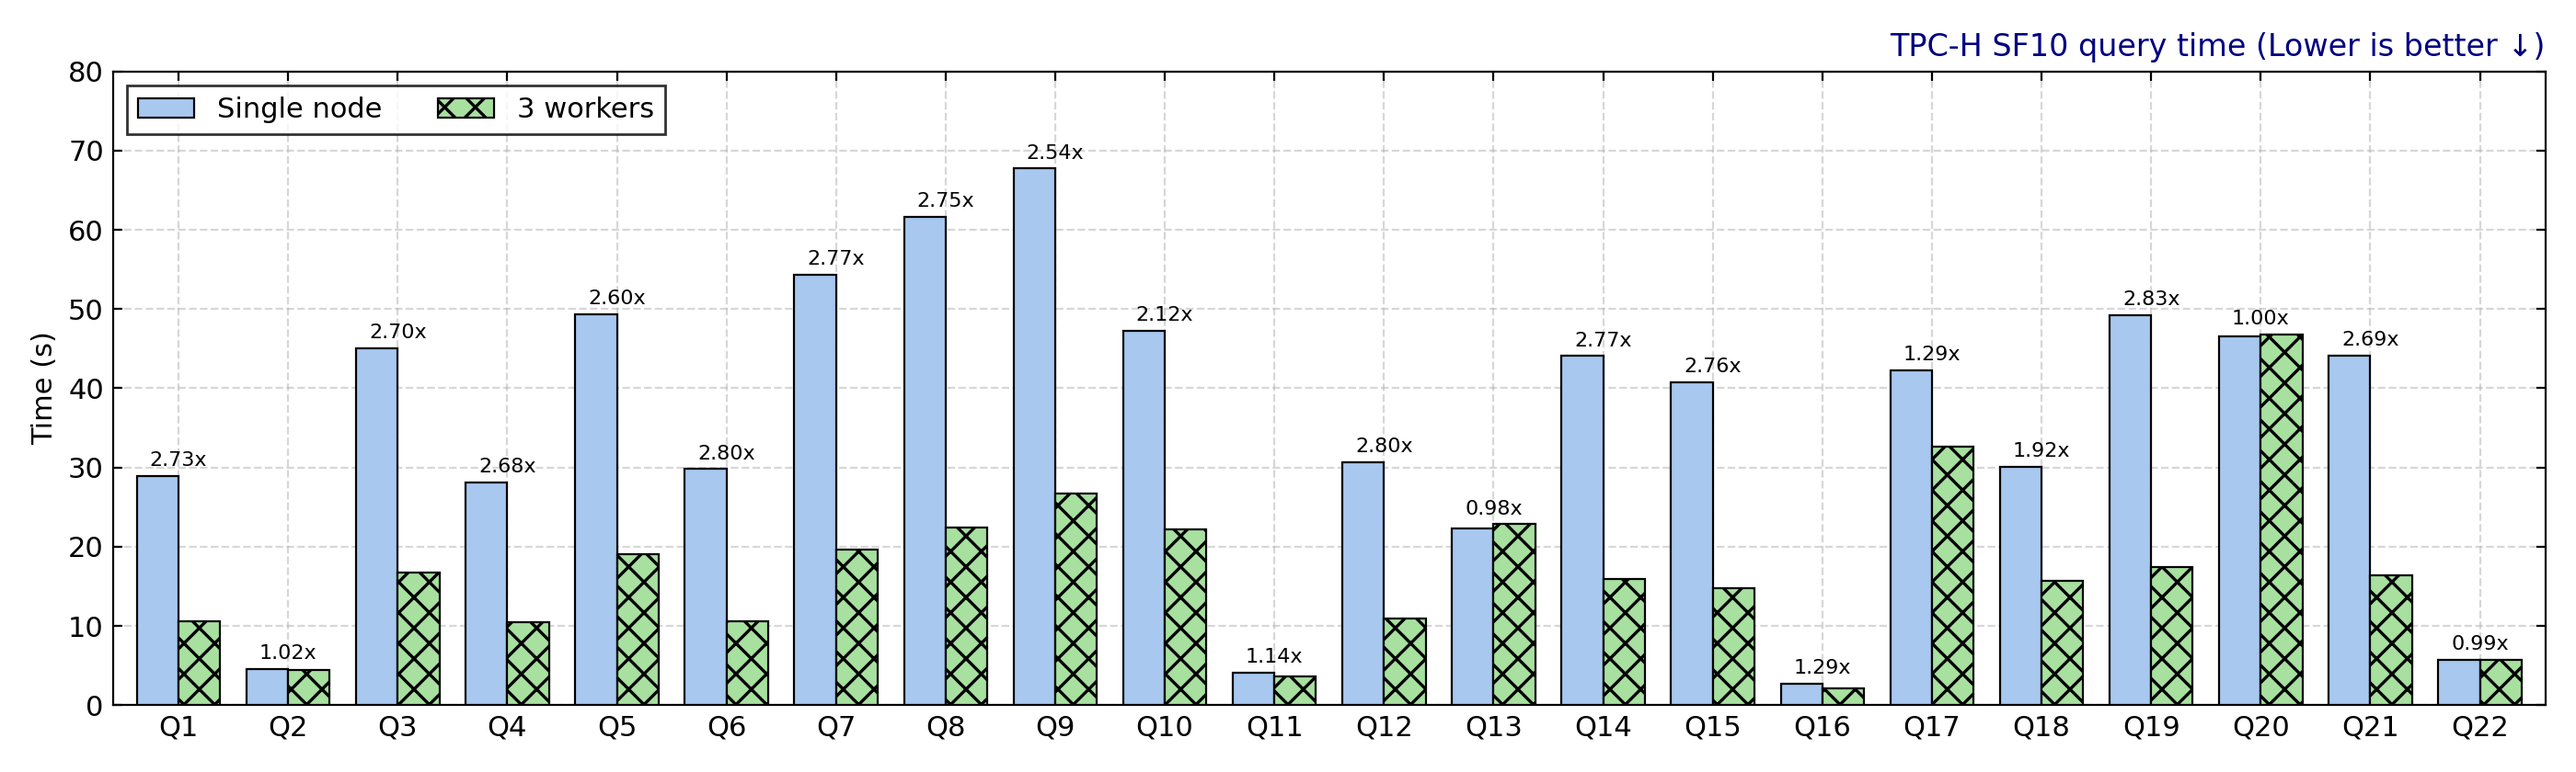
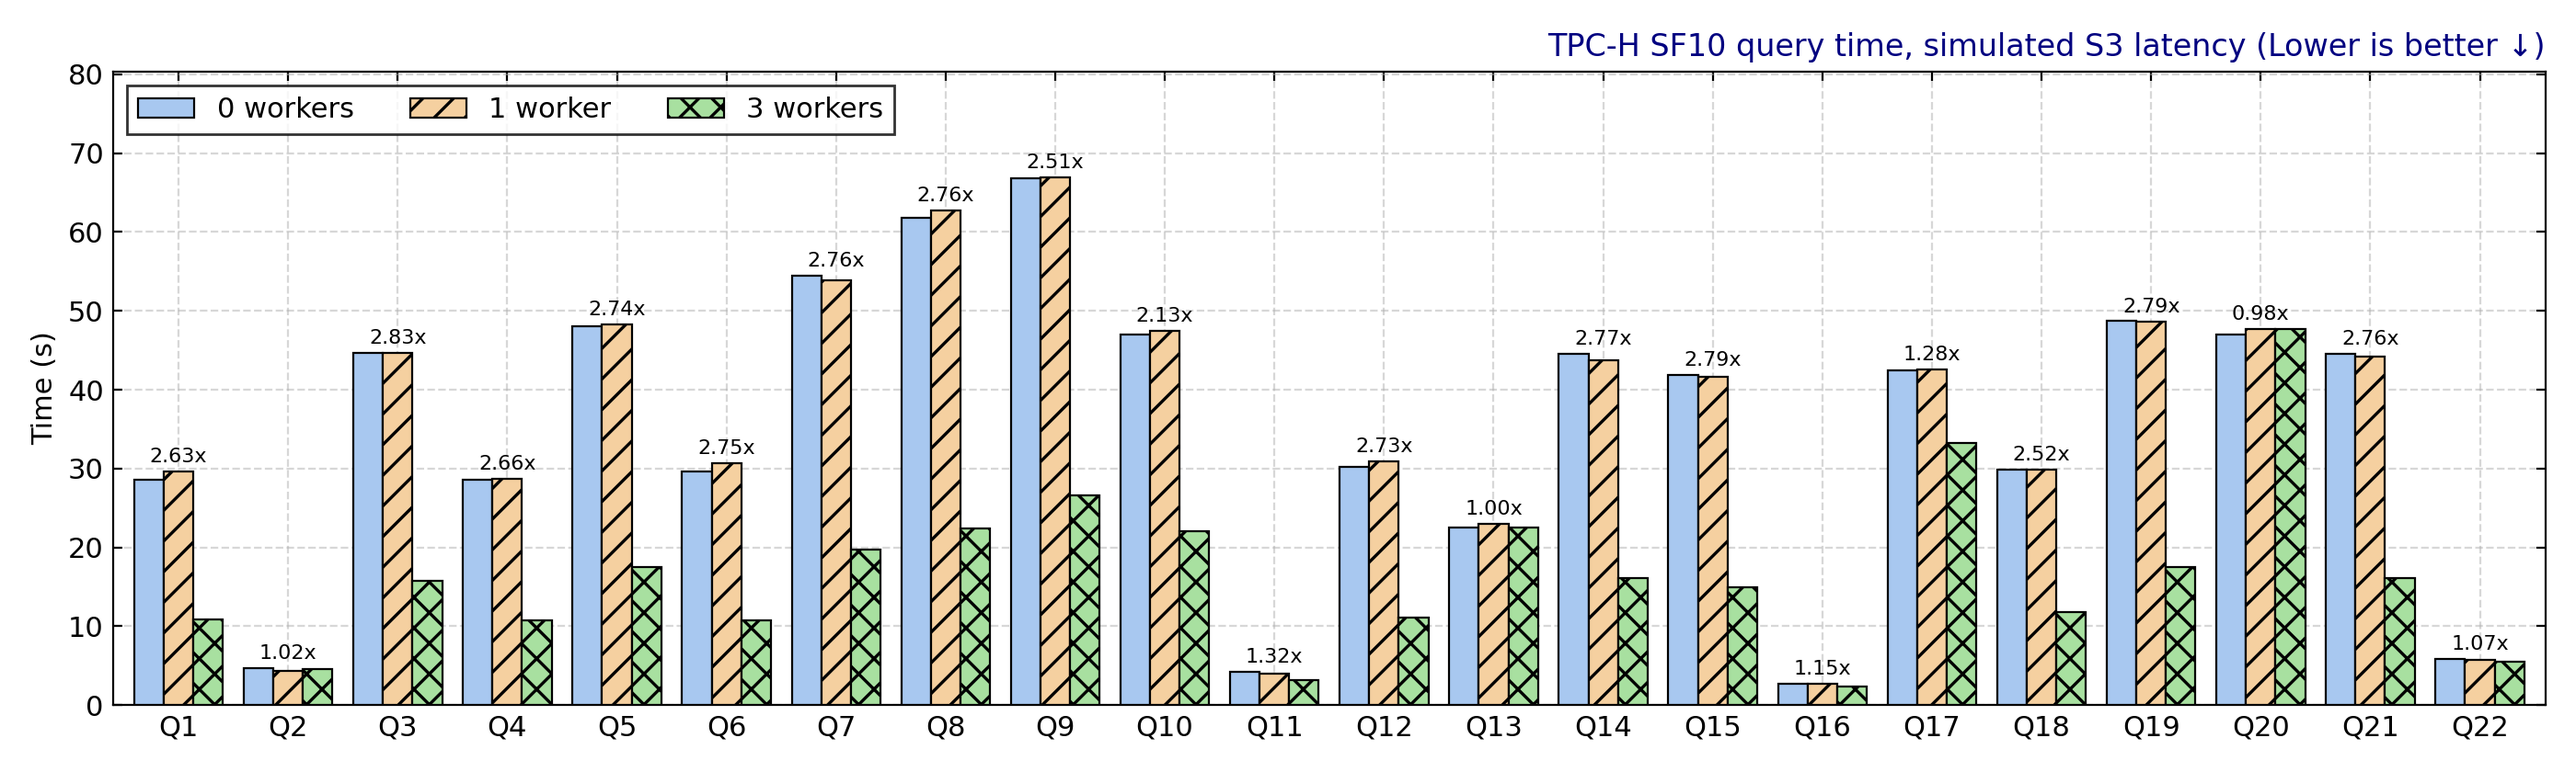
Add 1 worker and no-latency results

diff --git a/benchmark/tpch/README.md b/benchmark/tpch/README.md
@@ -102,32 +102,64 @@ So each DuckDB process gets both threads of one performance core. CPUs 10-15 sta
 
 ## Results
 
-SF10 with the run command above (`--cold`, one run per query) on the machine described below. Seconds per query with simulated S3 latency (`s3_latency.sql`). Queries 2, 13, 20 and 22 run on the driver; the others run on the workers.
+SF10 with the run command above (`--cold`, one run per query) on the machine described below. Seconds per query; Speedup is 0 workers over 3 workers. Queries 2, 13, 20 and 22 run on the driver; the others run on the workers. With 1 worker, the worker has the same two CPUs as the driver, so it takes as long as 0 workers.
 
-![TPC-H SF10 cold start](tpch-sf10-cold.png)
+With simulated S3 latency (`s3_latency.sql`):
 
-| Query | 0 workers | 3 workers | Speedup |
-| ---: | ---: | ---: | ---: |
-| 1 | 28.97 | 10.60 | 2.73x |
-| 2 | 4.51 | 4.44 | 1.02x |
-| 3 | 45.08 | 16.69 | 2.70x |
-| 4 | 28.06 | 10.46 | 2.68x |
-| 5 | 49.38 | 19.01 | 2.60x |
-| 6 | 29.80 | 10.63 | 2.80x |
-| 7 | 54.32 | 19.64 | 2.77x |
-| 8 | 61.66 | 22.41 | 2.75x |
-| 9 | 67.73 | 26.68 | 2.54x |
-| 10 | 47.20 | 22.23 | 2.12x |
-| 11 | 4.10 | 3.60 | 1.14x |
-| 12 | 30.64 | 10.95 | 2.80x |
-| 13 | 22.32 | 22.83 | 0.98x |
-| 14 | 44.06 | 15.89 | 2.77x |
-| 15 | 40.74 | 14.77 | 2.76x |
-| 16 | 2.69 | 2.09 | 1.29x |
-| 17 | 42.30 | 32.68 | 1.29x |
-| 18 | 30.05 | 15.67 | 1.92x |
-| 19 | 49.23 | 17.40 | 2.83x |
-| 20 | 46.60 | 46.82 | 1.00x |
-| 21 | 44.12 | 16.42 | 2.69x |
-| 22 | 5.69 | 5.75 | 0.99x |
-| **Total** | **779.3** | **367.7** | **2.12x** |
+![TPC-H SF10 cold start with simulated S3 latency](tpch-sf10-cold.png)
+
+| Query | 0 workers | 1 worker | 3 workers | Speedup |
+| ---: | ---: | ---: | ---: | ---: |
+| 1 | 28.63 | 29.68 | 10.89 | 2.63x |
+| 2 | 4.73 | 4.32 | 4.62 | 1.02x |
+| 3 | 44.68 | 44.71 | 15.79 | 2.83x |
+| 4 | 28.54 | 28.73 | 10.72 | 2.66x |
+| 5 | 48.08 | 48.32 | 17.53 | 2.74x |
+| 6 | 29.62 | 30.71 | 10.75 | 2.75x |
+| 7 | 54.43 | 53.85 | 19.71 | 2.76x |
+| 8 | 61.82 | 62.78 | 22.38 | 2.76x |
+| 9 | 66.83 | 66.97 | 26.59 | 2.51x |
+| 10 | 46.97 | 47.44 | 22.05 | 2.13x |
+| 11 | 4.24 | 3.99 | 3.20 | 1.32x |
+| 12 | 30.17 | 30.89 | 11.05 | 2.73x |
+| 13 | 22.57 | 23.02 | 22.56 | 1.00x |
+| 14 | 44.55 | 43.74 | 16.06 | 2.77x |
+| 15 | 41.88 | 41.60 | 14.99 | 2.79x |
+| 16 | 2.71 | 2.67 | 2.35 | 1.15x |
+| 17 | 42.49 | 42.59 | 33.20 | 1.28x |
+| 18 | 29.88 | 29.89 | 11.85 | 2.52x |
+| 19 | 48.71 | 48.67 | 17.46 | 2.79x |
+| 20 | 46.95 | 47.66 | 47.71 | 0.98x |
+| 21 | 44.57 | 44.14 | 16.14 | 2.76x |
+| 22 | 5.90 | 5.77 | 5.51 | 1.07x |
+| **Total** | **778.9** | **782.1** | **363.1** | **2.15x** |
+
+Without simulated latency:
+
+![TPC-H SF10 cold start without latency](tpch-sf10-cold-no-latency.png)
+
+| Query | 0 workers | 1 worker | 3 workers | Speedup |
+| ---: | ---: | ---: | ---: | ---: |
+| 1 | 2.87 | 2.94 | 1.79 | 1.60x |
+| 2 | 0.41 | 0.41 | 0.41 | 1.00x |
+| 3 | 3.75 | 3.65 | 2.46 | 1.53x |
+| 4 | 2.43 | 2.43 | 2.01 | 1.21x |
+| 5 | 3.79 | 3.72 | 2.50 | 1.51x |
+| 6 | 2.29 | 2.33 | 1.73 | 1.32x |
+| 7 | 4.02 | 4.08 | 2.77 | 1.45x |
+| 8 | 4.14 | 4.02 | 2.80 | 1.48x |
+| 9 | 5.58 | 5.55 | 3.61 | 1.54x |
+| 10 | 3.94 | 3.90 | 3.29 | 1.20x |
+| 11 | 0.35 | 0.35 | 0.65 | 0.53x |
+| 12 | 2.52 | 2.58 | 1.92 | 1.32x |
+| 13 | 2.63 | 2.66 | 2.65 | 0.99x |
+| 14 | 3.46 | 3.44 | 2.48 | 1.40x |
+| 15 | 3.10 | 3.20 | 2.28 | 1.36x |
+| 16 | 0.47 | 0.48 | 0.82 | 0.57x |
+| 17 | 3.11 | 3.17 | 4.45 | 0.70x |
+| 18 | 4.08 | 4.09 | 2.43 | 1.68x |
+| 19 | 3.72 | 3.71 | 2.56 | 1.45x |
+| 20 | 3.43 | 3.43 | 3.57 | 0.96x |
+| 21 | 4.18 | 4.28 | 2.67 | 1.57x |
+| 22 | 0.71 | 0.72 | 0.70 | 1.00x |
+| **Total** | **65.0** | **65.1** | **50.6** | **1.29x** |
